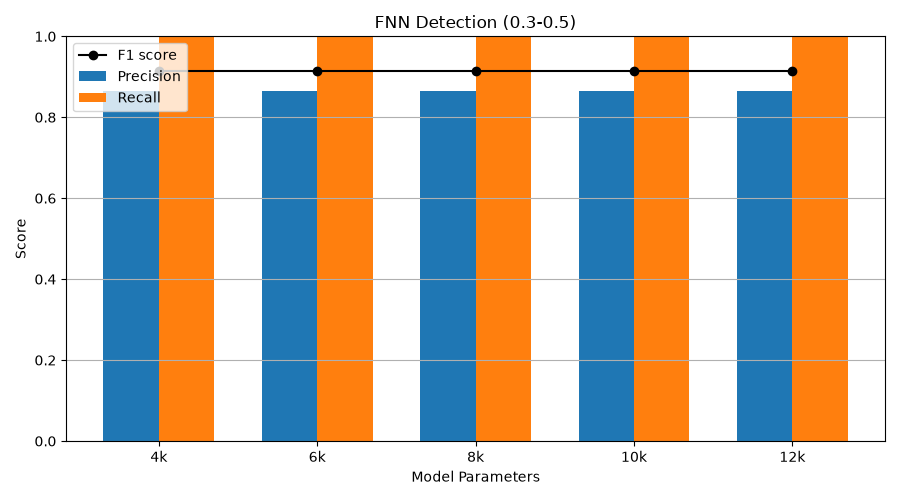
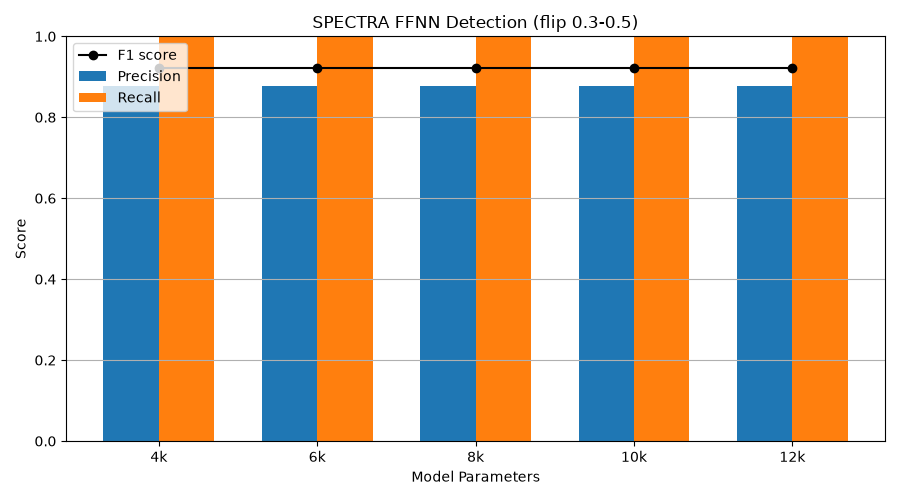
Slightly Altered Combine File

Changed region(s): [[0.1244, 0.12, 0.9022, 0.18], [0.3422, 0.03, 0.7156, 0.06]]

diff --git a/Experiments/combine_results_high_flip.py b/Experiments/combine_results_high_flip.py
@@ -60,10 +60,6 @@ def combine_and_average(results_dir, pattern, out_csv, out_png, title, min_flip_
     combined = pd.concat(dfs, ignore_index=True)
 
     n_seeds = combined["seed"].nunique() if "seed" in combined.columns else len(paths)
-    experiment_id = (
-        combined["experiment"].iloc[0] if "experiment" in combined.columns else ""
-    )
-
     grouped = (
         combined.groupby("model_class")[["precision", "recall", "f1"]]
         .mean()
@@ -75,7 +71,6 @@ def combine_and_average(results_dir, pattern, out_csv, out_png, title, min_flip_
 
     out_df = grouped[["model_class", "size_label", "precision", "recall", "f1"]].copy()
     out_df.insert(0, "n_seeds", n_seeds)
-    out_df.insert(0, "experiment", experiment_id)
     out_df.to_csv(out_csv, index=False)
     print(f"Saved averaged results ({n_seeds} seeds, {len(paths)} files) -> {out_csv}")
 

diff --git a/Old/SensitivityExperiment/Experiment3.py b/Old/SensitivityExperiment/Experiment3.py
@@ -57,7 +57,7 @@ sys.path.insert(0, _AT_DIR)
 sys.path.insert(0, _AT_PKG_DIR)
 sys.path.insert(0, _HERE)
 
-from snapshot_trainer import run as snapshot_run, load_full_dataset
+from Old.SensitivityExperiment.snapshot_trainer import run as snapshot_run, load_full_dataset
 from AnomalyTransformer.AnomalyAttention import AnomalyTransformer as ATModel
 from AnomalyTransformer.dataset import split_data, get_dataloader
 from AnomalyTransformer import train as at_train

diff --git a/Old/ThresholdExperiment/Experiment2.py b/Old/ThresholdExperiment/Experiment2.py
@@ -56,7 +56,7 @@ sys.path.insert(0, _AT_DIR)
 sys.path.insert(0, _AT_PKG_DIR)
 sys.path.insert(0, _HERE)
 
-from snapshot_trainer import run as snapshot_run, load_full_dataset
+from Old.ThresholdExperiment.snapshot_trainer import run as snapshot_run, load_full_dataset
 from AnomalyTransformer.AnomalyAttention import AnomalyTransformer as ATModel
 from AnomalyTransformer.dataset import split_data, get_dataloader
 from AnomalyTransformer import train as at_train
